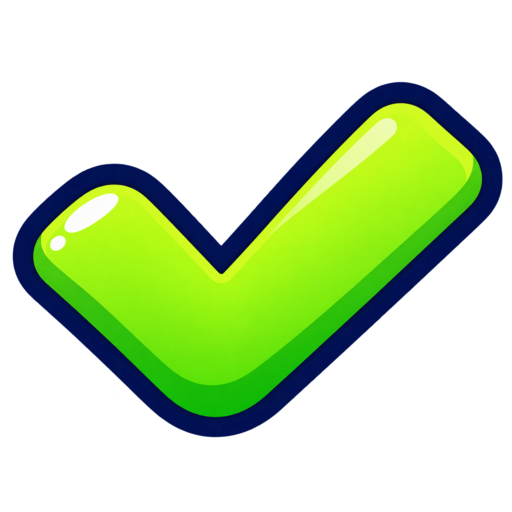
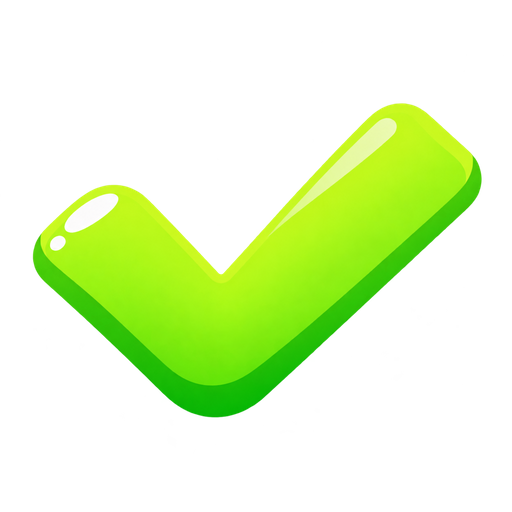
Правки иконок

Changed region(s): [[0.0, 0.1562, 1.0, 0.875]]

diff --git a/tools/TESTS.md b/tools/TESTS.md
@@ -192,3 +192,5 @@ GPU-сценарий `composited_fade_render` также проверяет по
 `tools/tests/colored_icon_outline_render.tscn` требует GPU и проверяет ширины обводки 2/5/8 экранных пикселей при масштабе 0.5×/1×/2×/4× и независимые кешированные материалы для разных толщин, сохранение положения/цвета заливки, половинную/нулевую прозрачность и восстановление через `composited_fade`. Также проверяет реальные попапы сердца и монет: общую четырёхслойную тень с учётом контура 5 px, видимые пиксели тени сердца, закрытие и повторное открытие в RU/EN при 960×1600 и 690×1536. Кадры `heart_shadow_*` сохраняются при `HANGMAN_UI_CAPTURE_DIR`. Запускайте в `isolated_environment` со скрытым окном. Реальный UI проверяют `leaderboard_ui`, `tournament_ui`, `tournament_start_popup`, `portrait_stage_reward` и `composited_fade_render` в RU/EN при 960×1600 и 690×1536. Файлы после очистки генератором проверяет `python tools/verify_colored_icon_outlines.py` (Pillow): контрольные суммы, размеры холстов, прозрачность и просмотренные границы рисунка. Исходные хеши, ID результатов и запросы генератору хранятся в `data/colored_icon_outline_manifest.json`. Не применяйте к этим PNG повторное автоматическое удаление линий.
 
 `quiz_selection_pool` проверяет перемешивание ответов, неизменность источника, ограниченную историю показов и восстановление снимков после правки сложности/текста/ключа ответа. `quiz_expansion` проверяет восстановление оплаченного 50/50, замену снятого с публикации ID в настоящем resume-пути и запись новой викторины до первого ожидания анимации замены. Обычные отчёты UI-сценариев содержат результаты проверок геометрии, поведения и пикселей; диагностические хеши дерева узлов не вычисляются.
+
+`colored_icon_outline_render` дополнительно создаёт настоящие галочку и крестик цепочки через `_stage_single_player_reward_status_icon`: проверяет отсутствие тёмно-синих пикселей без материала, появление шейдерной обводки 6 px и видимых пикселей четырёхслойной тени с тем же контуром, общий Z=0 и игнорирование ввода, видимость контура при масштабах 0.5×/1×/1.4×, согласованную половинную/нулевую прозрачность и повторное появление после анимации. Матрица RU/EN × 960×1600/690×1536; кадры `status_check_*` и `status_cross_*` сохраняются при `HANGMAN_UI_CAPTURE_DIR`. После замены общего PNG галочки проверяйте также `profile_ui`, где она используется для выбора рамки.

diff --git a/docs/ICON_GUIDELINES.md b/docs/ICON_GUIDELINES.md
@@ -15,6 +15,8 @@
 
 Исключение: `hint_locked_doodle.png` — 1254×1254, белый замок с тонким тёмным контуром. Не копируй его размер и обводку автоматически на остальные doodle. App icon и логотипы имеют собственные требования и не являются референсом для обычной кнопки.
 
+Галочка и крестик цепочки (`reward_status_check_wide.png`, `reward_status_cross_wide.png`) содержат только цветную заливку, блики и объём без тёмно-синего контура. В цепочке их обводит общий `colored_icon_outline.gd` с `CHAIN_STATUS_PIXELS` (6 экранных пикселей) и стандартной четырёхслойной шейдерной тенью с учётом контура; заливка, обводка и тень собираются в один `composited_fade` для равномерного затухания. Галочка выбора рамки профиля использует стандартную ширину 2 px. Не возвращать вшитую обводку: она продублирует шейдерную и начнёт масштабироваться вместе с рисунком. Холсты — RGBA 512×512; происхождение генерации и просмотренные границы сохранены в `data/colored_icon_outline_manifest.json`.
+
 ## Обязательный процесс
 
 1. Найди в коде потребителя: размер holder, stretch mode, modulate, материал, extrusion, возможное вращение и состояния. Зафиксируй семантику действия.
